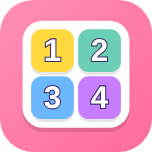
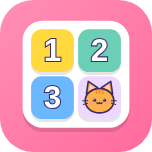
Kawaii-iconen: volledige eigen set en nieuw app-icoon met de kat

diff --git a/icons.js b/icons.js
@@ -175,7 +175,6 @@
     gear: () =>
       [0, 45, 90, 135, 180, 225, 270, 315].map(a => `<rect x="27" y="4" width="10" height="14" rx="3.5" fill="#B79CF2" ${O} transform="rotate(${a} 32 32)"/>`).join('') +
       circle(32, 32, 19, '#B79CF2') + circle(32, 32, 12.5, '#F3ECFF', `stroke="${INK}" stroke-width="2.2"`) + face(32, 30, 0.55),
-    hint: () => ICONS.bulb(),
 
     // ---------- worlds ----------
     tree: () =>
@@ -189,6 +188,58 @@
       path('M18 38 L8 50 L21 47 Z', '#FF5C7A') + path('M46 38 L56 50 L43 47 Z', '#FF5C7A') +
       path('M32 4 C44 14 46 34 42 48 H22 C18 34 20 14 32 4 Z', '#fff') + path('M32 4 C37 8 40.4 13.4 42.4 19 H21.6 C23.6 13.4 27 8 32 4 Z', '#FF5C7A') +
       circle(32, 30, 8.5, '#BDE3FF') + face(32, 30, 0.42, 'smile'),
+    barn: () =>
+      path('M8 58 V30 L18 16 L32 8 L46 16 L56 30 V58 Z', '#FF6B6B') + path('M8 30 L18 16 L32 8 L46 16 L56 30', 'none', `stroke="#fff" stroke-width="3" stroke-linejoin="round" stroke-linecap="round"`) +
+      path('M8 30 L18 16 L32 8 L46 16 L56 30', 'none') + rect(22, 40, 20, 18, 3, '#FFF6E8') +
+      el('path', 'd="M22 40 l20 18 M42 40 l-20 18"', `stroke="${INK}" stroke-width="2" stroke-linecap="round"`) + circle(32, 22, 5, '#FFF6E8') + face(32, 31, 0.62),
+    palm: () =>
+      path('M29 58 C28 44 30 34 33 26 L38 27 C36 36 36 46 38 58 Z', '#C68B59') +
+      path('M34 26 C22 14 10 18 6 28 C16 24 24 26 34 26 Z', '#5FC56B') + path('M34 26 C46 12 58 18 60 28 C50 23 42 25 34 26 Z', '#5FC56B') +
+      path('M34 26 C28 8 14 6 10 10 C20 12 28 18 34 26 Z', '#7FD47A') + path('M34 26 C40 8 54 6 58 10 C48 12 40 18 34 26 Z', '#7FD47A') +
+      circle(30, 30, 4, '#A9713D') + circle(38, 31, 4, '#A9713D') + face(34, 44, 0.42),
+    puzzle: () =>
+      path('M10 18 H24 C22 10 34 8 34 16 C34 17 33.6 18 33.6 18 H48 V32 C56 30 58 42 50 42 C49 42 48 41.6 48 41.6 V56 H10 V41.6 C18 44 20 30 12 32 C11 32 10 32.4 10 32.4 Z', '#7FD47A') + face(29, 38, 0.8),
+
+    // ---------- buttons ----------
+    back: () => circle(32, 32, 26, '#C5E4FF') + el('path', 'd="M36 18 L22 32 L36 46"', `stroke="${INK}" stroke-width="7" stroke-linecap="round" stroke-linejoin="round" fill="none"`),
+    next: () => el('path', 'd="M12 32 H48 M36 18 L50 32 L36 46"', `stroke="${INK}" stroke-width="7" stroke-linecap="round" stroke-linejoin="round" fill="none"`),
+    play: () => path('M20 12 L52 32 L20 52 Z', '#FF5C8A', `stroke="${INK}" stroke-width="3" stroke-linejoin="round"`),
+    home: () => path('M8 32 L32 10 L56 32 V56 H8 Z', '#FFD43B') + path('M4 33 L32 8 L60 33', 'none', `stroke="${INK}" stroke-width="5" stroke-linecap="round" stroke-linejoin="round"`) + rect(26, 40, 12, 16, 3, '#FF8FB1') ,
+    replay: () =>
+      el('path', 'd="M50 32 A18 18 0 1 1 42 17"', `stroke="${INK}" stroke-width="7" stroke-linecap="round" fill="none"`) +
+      path('M40 6 L52 16 L38 22 Z', INK, `stroke="${INK}" stroke-width="3" stroke-linejoin="round"`),
+    clock: () => circle(32, 34, 23, '#fff') + rect(27, 4, 10, 8, 3, '#C9CEDB') + el('path', 'd="M32 20 V34 L42 40"', `stroke="${INK}" stroke-width="4" stroke-linecap="round" stroke-linejoin="round" fill="none"`),
+    cross: () => el('path', 'd="M16 16 L48 48 M48 16 L16 48"', `stroke="${INK}" stroke-width="13" stroke-linecap="round"`) + el('path', 'd="M16 16 L48 48 M48 16 L16 48"', `stroke="#FF5C5C" stroke-width="8" stroke-linecap="round"`),
+    plus: () => el('path', 'd="M32 12 V52 M12 32 H52"', `stroke="${INK}" stroke-width="13" stroke-linecap="round"`) + el('path', 'd="M32 12 V52 M12 32 H52"', `stroke="#6CCB5F" stroke-width="8" stroke-linecap="round"`),
+    trash: () => rect(8, 14, 48, 9, 4, '#C9CEDB') + rect(25, 6, 14, 10, 4, '#C9CEDB') + path('M13 23 H51 L48 58 H16 Z', '#E4E7EF') + el('path', 'd="M25 31 v19 M32 31 v19 M39 31 v19"', `stroke="${INK}" stroke-width="2.6" stroke-linecap="round"`),
+    warning: () => path('M32 6 L60 54 H4 Z', '#FFD43B', `stroke="${INK}" stroke-width="3.4" stroke-linejoin="round"`) + el('path', 'd="M32 24 V38"', `stroke="${INK}" stroke-width="5" stroke-linecap="round"`) + circle(32, 46, 3, INK, ''),
+    hand: () =>
+      path('M24 30 V12 a5 5 0 0 1 10 0 V26 l12 2.4 c5 1 7 4 6.4 9 L50 50 c-1 6 -5 10 -11 10 H31 c-5 0 -8 -2 -11 -6 L10 40 c-3 -5 3 -9 7 -5 l7 6 Z', '#FFD9B8'),
+    swap: () =>
+      el('path', 'd="M12 24 H48 M38 12 L50 24 L38 36 M52 42 H16 M26 30 L14 42 L26 54"', `stroke="${INK}" stroke-width="6" stroke-linecap="round" stroke-linejoin="round" fill="none"`),
+    note: () =>
+      path('M24 12 L52 6 V40 a8 7 0 1 1 -6 -6.6 V19 L30 22.4 V46 a8 7 0 1 1 -6 -6.6 Z', '#B79CF2'),
+    speaker: () =>
+      path('M8 24 H20 L34 12 V52 L20 40 H8 Z', '#7CC4FF') + el('path', 'd="M42 24 q6 8 0 16 M48 16 q12 16 0 32"', `stroke="${INK}" stroke-width="4" stroke-linecap="round" fill="none"`),
+    tap: () =>
+      el('path', 'd="M32 4 v8 M14 12 l5 6 M50 12 l-5 6"', `stroke="#FFB02E" stroke-width="4" stroke-linecap="round"`) +
+      `<g transform="translate(4 14) scale(0.82)">` + path('M24 30 V12 a5 5 0 0 1 10 0 V26 l12 2.4 c5 1 7 4 6.4 9 L50 50 c-1 6 -5 10 -11 10 H31 c-5 0 -8 -2 -11 -6 L10 40 c-3 -5 3 -9 7 -5 l7 6 Z', '#FFD9B8') + '</g>',
+    globe: () =>
+      circle(32, 32, 25, '#7CC4FF') + path('M14 22 C22 16 26 24 22 30 C18 36 26 40 22 46 C16 46 10 40 9 34 C9 28 11 25 14 22 Z', '#7FD47A', '') +
+      path('M38 9 C46 12 52 18 54 26 C48 30 42 26 40 20 C38 16 36 12 38 9 Z', '#7FD47A', '') + path('M40 40 C46 38 52 40 52 44 C48 52 42 55 36 56 C34 50 36 44 40 40 Z', '#7FD47A', '') +
+      circle(32, 32, 25, 'none') + face(32, 32, 0.7),
+    ruler: () =>
+      `<g transform="rotate(-35 32 32)">` + rect(4, 22, 56, 20, 5, '#FFD43B') +
+      el('path', 'd="M14 22 v8 M24 22 v11 M34 22 v8 M44 22 v11 M54 22 v8"', `stroke="${INK}" stroke-width="2.4" stroke-linecap="round"`) + '</g>',
+    trophy: () =>
+      el('path', 'd="M18 14 H8 c0 12 4 18 12 20 M46 14 H56 c0 12 -4 18 -12 20"', `stroke="${INK}" stroke-width="3" fill="none" stroke-linecap="round"`) +
+      path('M16 8 H48 V24 C48 36 40 42 32 42 C24 42 16 36 16 24 Z', '#FFD43B') + rect(28, 42, 8, 8, 2, '#FFB02E') + rect(18, 50, 28, 8, 4, '#FFB02E') + face(32, 24, 0.7),
+    medal: () =>
+      path('M20 4 H32 L38 26 H26 Z', '#7CC4FF') + path('M44 4 H32 L26 26 H38 Z', '#FF8FB1') + circle(32, 40, 18, '#FFD43B') + circle(32, 40, 12, '#FFE98A', `stroke="${INK}" stroke-width="2"`) + face(32, 39, 0.55),
+    crown: () =>
+      path('M8 50 L6 20 L20 32 L32 12 L44 32 L58 20 L56 50 Z', '#FFD43B') + rect(8, 46, 48, 10, 4, '#FFB02E') + circle(32, 12, 4, '#FF5C8A') + circle(6, 20, 3.4, '#7CC4FF') + circle(58, 20, 3.4, '#7CC4FF'),
+    check: () => el('path', 'd="M12 34 L26 48 L52 18"', `stroke="${INK}" stroke-width="13" stroke-linecap="round" stroke-linejoin="round" fill="none"`) + el('path', 'd="M12 34 L26 48 L52 18"', `stroke="#6CCB5F" stroke-width="8" stroke-linecap="round" stroke-linejoin="round" fill="none"`),
+    lockpad: () => ICONS.lock(),
   };
 
   const cache = {};

diff --git a/docs/icon-opties.html b/docs/icon-opties.html
@@ -75,7 +75,9 @@
       </dl>
     </section>
   </div>
-  <p class="note"><strong>Mijn advies: optie 1.</strong> Het is de enige die echt kawaii is (blosjes en gezichtjes op alles), er is
+  <p class="note"><strong>Gekozen op 11 oktober 2026: optie 1 (zelf getekend).</strong> Die is in de hele app doorgevoerd; opties 2 en 3
+     staan hier alleen nog ter vergelijking en zitten niet in de app.</p>
+  <p class="note"><strong>Mijn advies was: optie 1.</strong> Het is de enige die echt kawaii is (blosjes en gezichtjes op alles), er is
      niets te vermelden en het is veruit het kleinst. Nadeel: elk nieuw icoon moet getekend worden.</p>
 </main>
 <script src="../icons.js"></script>
